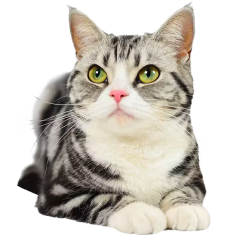
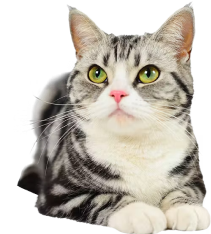
hero section responsive

diff --git a/components/landing/hero/index.jsx b/components/landing/hero/index.jsx
@@ -7,31 +7,48 @@ import cat1 from './cat1.png';
 import cat2 from './cat2.png';
 import cat3 from './cat3.png';
 
+function CatPictures() {
+     return (
+        <div className={`${styles['image-section']}`}>
+            <div className={`absolute ${styles.patch1}`}>
+                <CatBackgroundPatch rotationDegree={-9.14} color="#CFEFD2"/>
+            </div>
+            <div className={`absolute ${styles.patch2}`}>
+                <CatBackgroundPatch rotationDegree={1.32} color="#F19ABD"/>
+            </div>
+            <div className={`absolute ${styles.patch3}`}>
+                <CatBackgroundPatch rotationDegree={1.08} color="#ECEB9A"/>
+            </div>
+            <div className={`absolute ${styles.cat1}`}>
+                <Image src={cat1} width={211} height={234} layout='fixed'/>
+            </div>
+            <div className={`absolute ${styles.cat2}`}>
+                <Image src={cat2} width={261} height={225} layout='fixed'/>
+            </div>
+            <div className={`absolute ${styles.cat3}`}>
+                <Image src={cat3} width={409} height={278} layout='fixed'/>
+            </div>
+            <div className='md:hidden relative w-full h-full bg-white opacity-60' />
+        </div>
+     );
+}
+
 export default function HeroSection() {
     return (
-        <div className="flex flex-row items-center justify-center mx-8">
-            <div className={`${styles['text-section']}`}>
-                <p>Surrounded with Love, </p>
-                <p>Visit our Adoption Cafe for a new friend</p>
+        <div className="block relative md:flex flex-col-reverse md:flex-row items-center justify-center mx-8 h-96 md:h-auto">
+            <div className={`${styles['text-section']} absolute md:relative z-10`}>
+                <p>Surrounded with <span className={`${styles.love}`}>Love</span></p>
+                <br />
+                <p>Visit our Adoption Cafe for a new <span className={`${styles.friend}`}>friend</span></p>
             </div>
-            <div className={`${styles['image-section']}`}>
-                <div className={`${styles.patch} ${styles.patch1}`}>
-                    <CatBackgroundPatch rotationDegree={-9.14} color="#CFEFD2"/>
+            <div className='absolute md:relative overflow-hidden w-full md:w-auto h-96 md:h-auto'>
+                <div className='hidden md:block'>
+                    <CatPictures />
                 </div>
-                <div className={`${styles.patch} ${styles.patch2}`}>
-                    <CatBackgroundPatch rotationDegree={1.32} color="#F19ABD"/>
-                </div>
-                <div className={`${styles.patch} ${styles.patch3}`}>
-                    <CatBackgroundPatch rotationDegree={1.08} color="#ECEB9A"/>
-                </div>
-                <div className={`${styles.cat} ${styles.cat1}`}>
-                    <Image src={cat1} width={245} height={236} layout='fixed'/>
-                </div>
-                <div className={`${styles.cat} ${styles.cat2}`}>
-                    <Image src={cat2} width={261} height={225} layout='fixed'/>
-                </div>
-                <div className={`${styles.cat} ${styles.cat3}`}>
-                    <Image src={cat3} width={409} height={278} layout='fixed'/>
+                <div className={`md:hidden relative h-full`} style={{opacity: 0.25}}>
+                    <div style={{position: 'absolute', bottom: 0, right: 0}}>
+                        <Image src={cat1} width={211 * 1.3} height={234 * 1.3} layout='fixed'/>
+                    </div>
                 </div>
             </div>
         </div>

diff --git a/components/nav-bar.jsx b/components/nav-bar.jsx
@@ -35,7 +35,7 @@ export default function Navbar() {
                     </div>
                 </div>
             </div>
-            <div className={`${hamburgerMenuDisplayClass} md:hidden link-text text-xl relative z-10`}>
+            <div className={`${hamburgerMenuDisplayClass} md:hidden link-text text-xl relative z-20`}>
                 <div className='absolute bg-white w-full'>
                     <hr />
                     {menuItems.map((item, index) => (

diff --git a/styles/HeroSection.module.css b/styles/HeroSection.module.css
@@ -5,10 +5,6 @@
     width: 849px;
 }
 
-.patch {
-    position: absolute;
-}
-
 .patch1 {
     top: 149.28px;
 }
@@ -21,10 +17,6 @@
 .patch3 {
     top: 80.78px;
     left: 453px;
-}
-
-.cat {
-    position: absolute;
 }
 
 .cat1 {
@@ -44,10 +36,15 @@
     left: 440px;
 }
 
-.text-section {
-}
-
 .text-section p {
     font-weight: 600;
     font-size: 40px;
+}
+
+.love {
+    color: #CE5B5B;
+}
+
+.friend {
+    color: var(--theme-text-color);
 }

diff --git a/components/landing/stats/StatsPanel.jsx b/components/landing/stats/StatsPanel.jsx
@@ -2,7 +2,7 @@ import Stats from "./Stats";
 
 export default function StatsPanel() {
     return (
-        <div className="flex flex-row justify-center">
+        <div className="flex flex-col md:flex-row justify-center text-center gap-y-7">
             <div className="px-5">
                 <Stats rotationDegree={0} number={163} unit="Rescued"/>
             </div>
